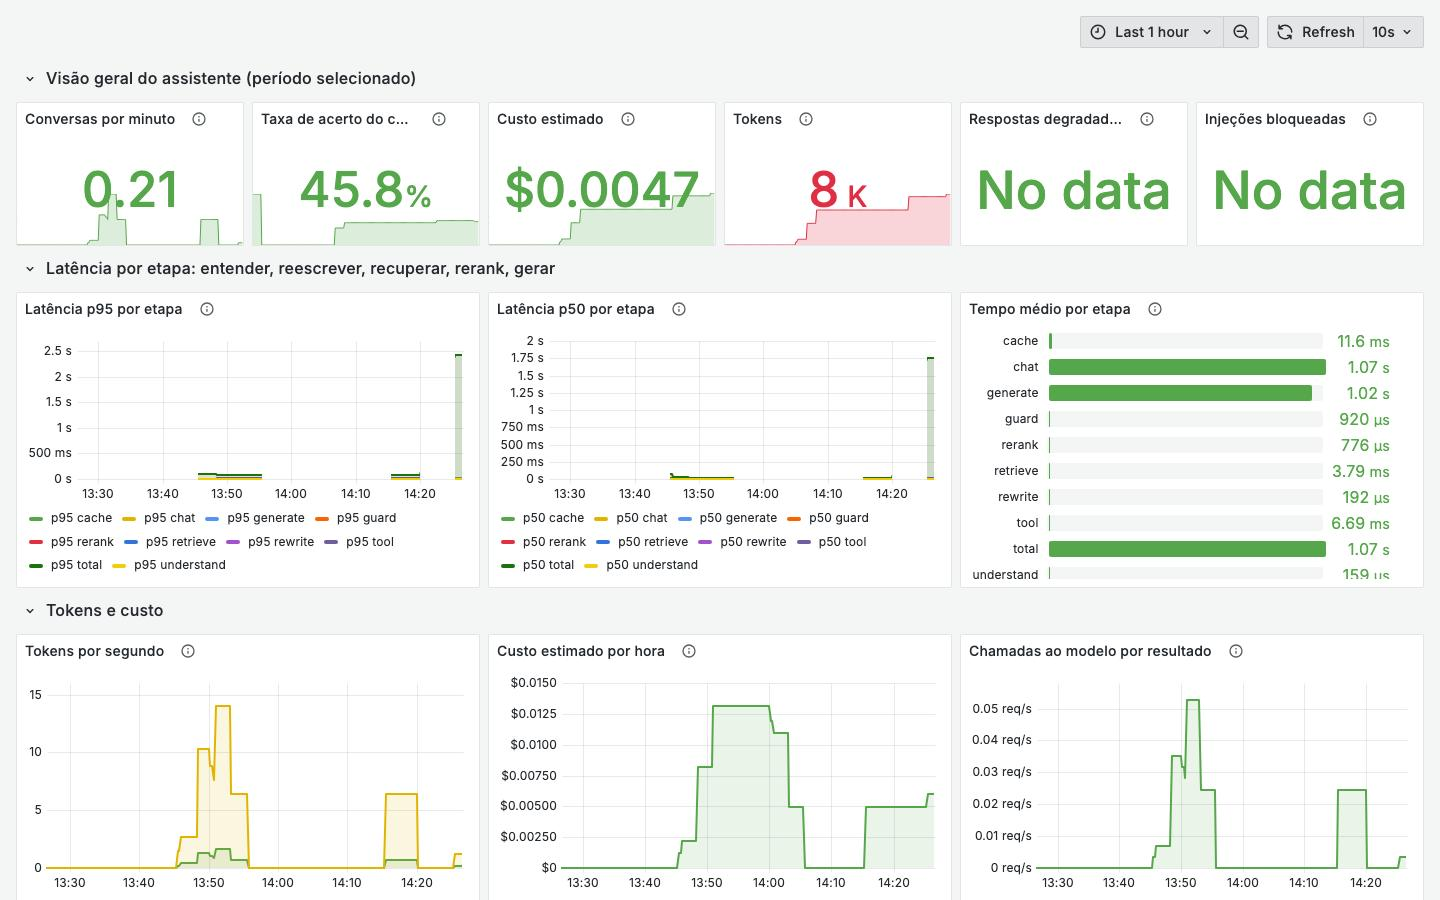
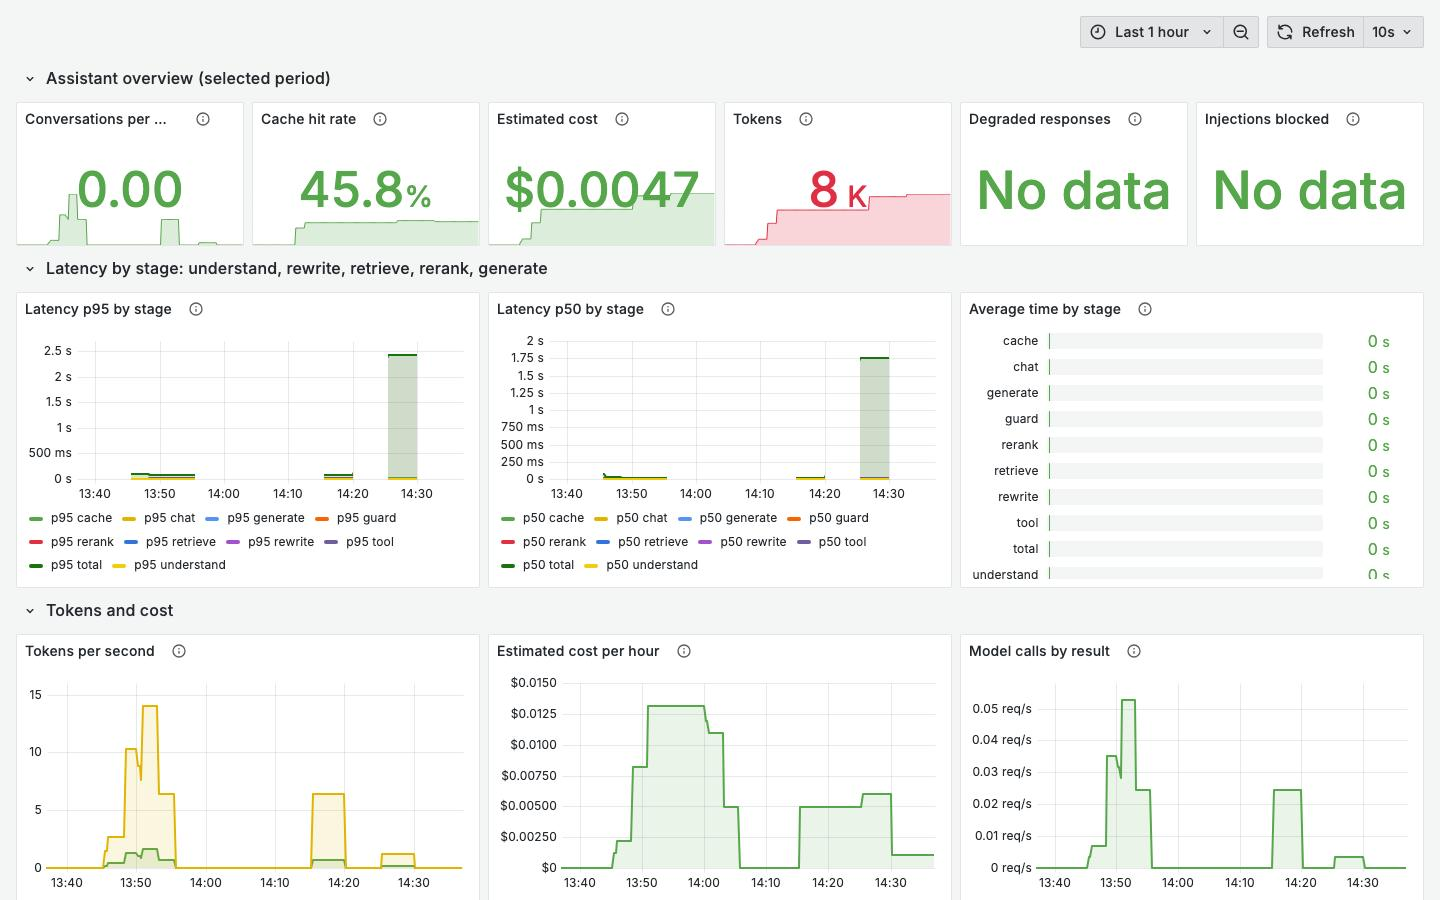
Translate the Grafana dashboards and alert rules to English and refresh the screenshots

diff --git a/README.pt-BR.md b/README.pt-BR.md
@@ -365,7 +365,7 @@ A avaliação roda num conjunto dourado de 111 casos (adversariais, negação, e
 </tr>
 </table>
 
-Os logs são JSON estruturado com `trace_id`. As métricas são Prometheus (RED mais contadores de negócio). Os alertas incluem regras de burn rate de SLO verificadas com `promtool test rules`. Os rótulos dos dashboards do Grafana são em português, como o produto.
+Os logs são JSON estruturado com `trace_id`. As métricas são Prometheus (RED mais contadores de negócio). Os alertas incluem regras de burn rate de SLO verificadas com `promtool test rules`.
 
 ## Testes e qualidade
 

diff --git a/README.md b/README.md
@@ -365,7 +365,7 @@ Evaluation runs on a 111-case golden set (adversarial, negation, typos, multi-ho
 </tr>
 </table>
 
-Logs are structured JSON with `trace_id`. Metrics are Prometheus (RED plus business counters). Alerts include SLO burn-rate rules checked with `promtool test rules`. The Grafana dashboard labels are in Portuguese, like the product.
+Logs are structured JSON with `trace_id`. Metrics are Prometheus (RED plus business counters). Alerts include SLO burn-rate rules checked with `promtool test rules`.
 
 ## Testing and quality
 
